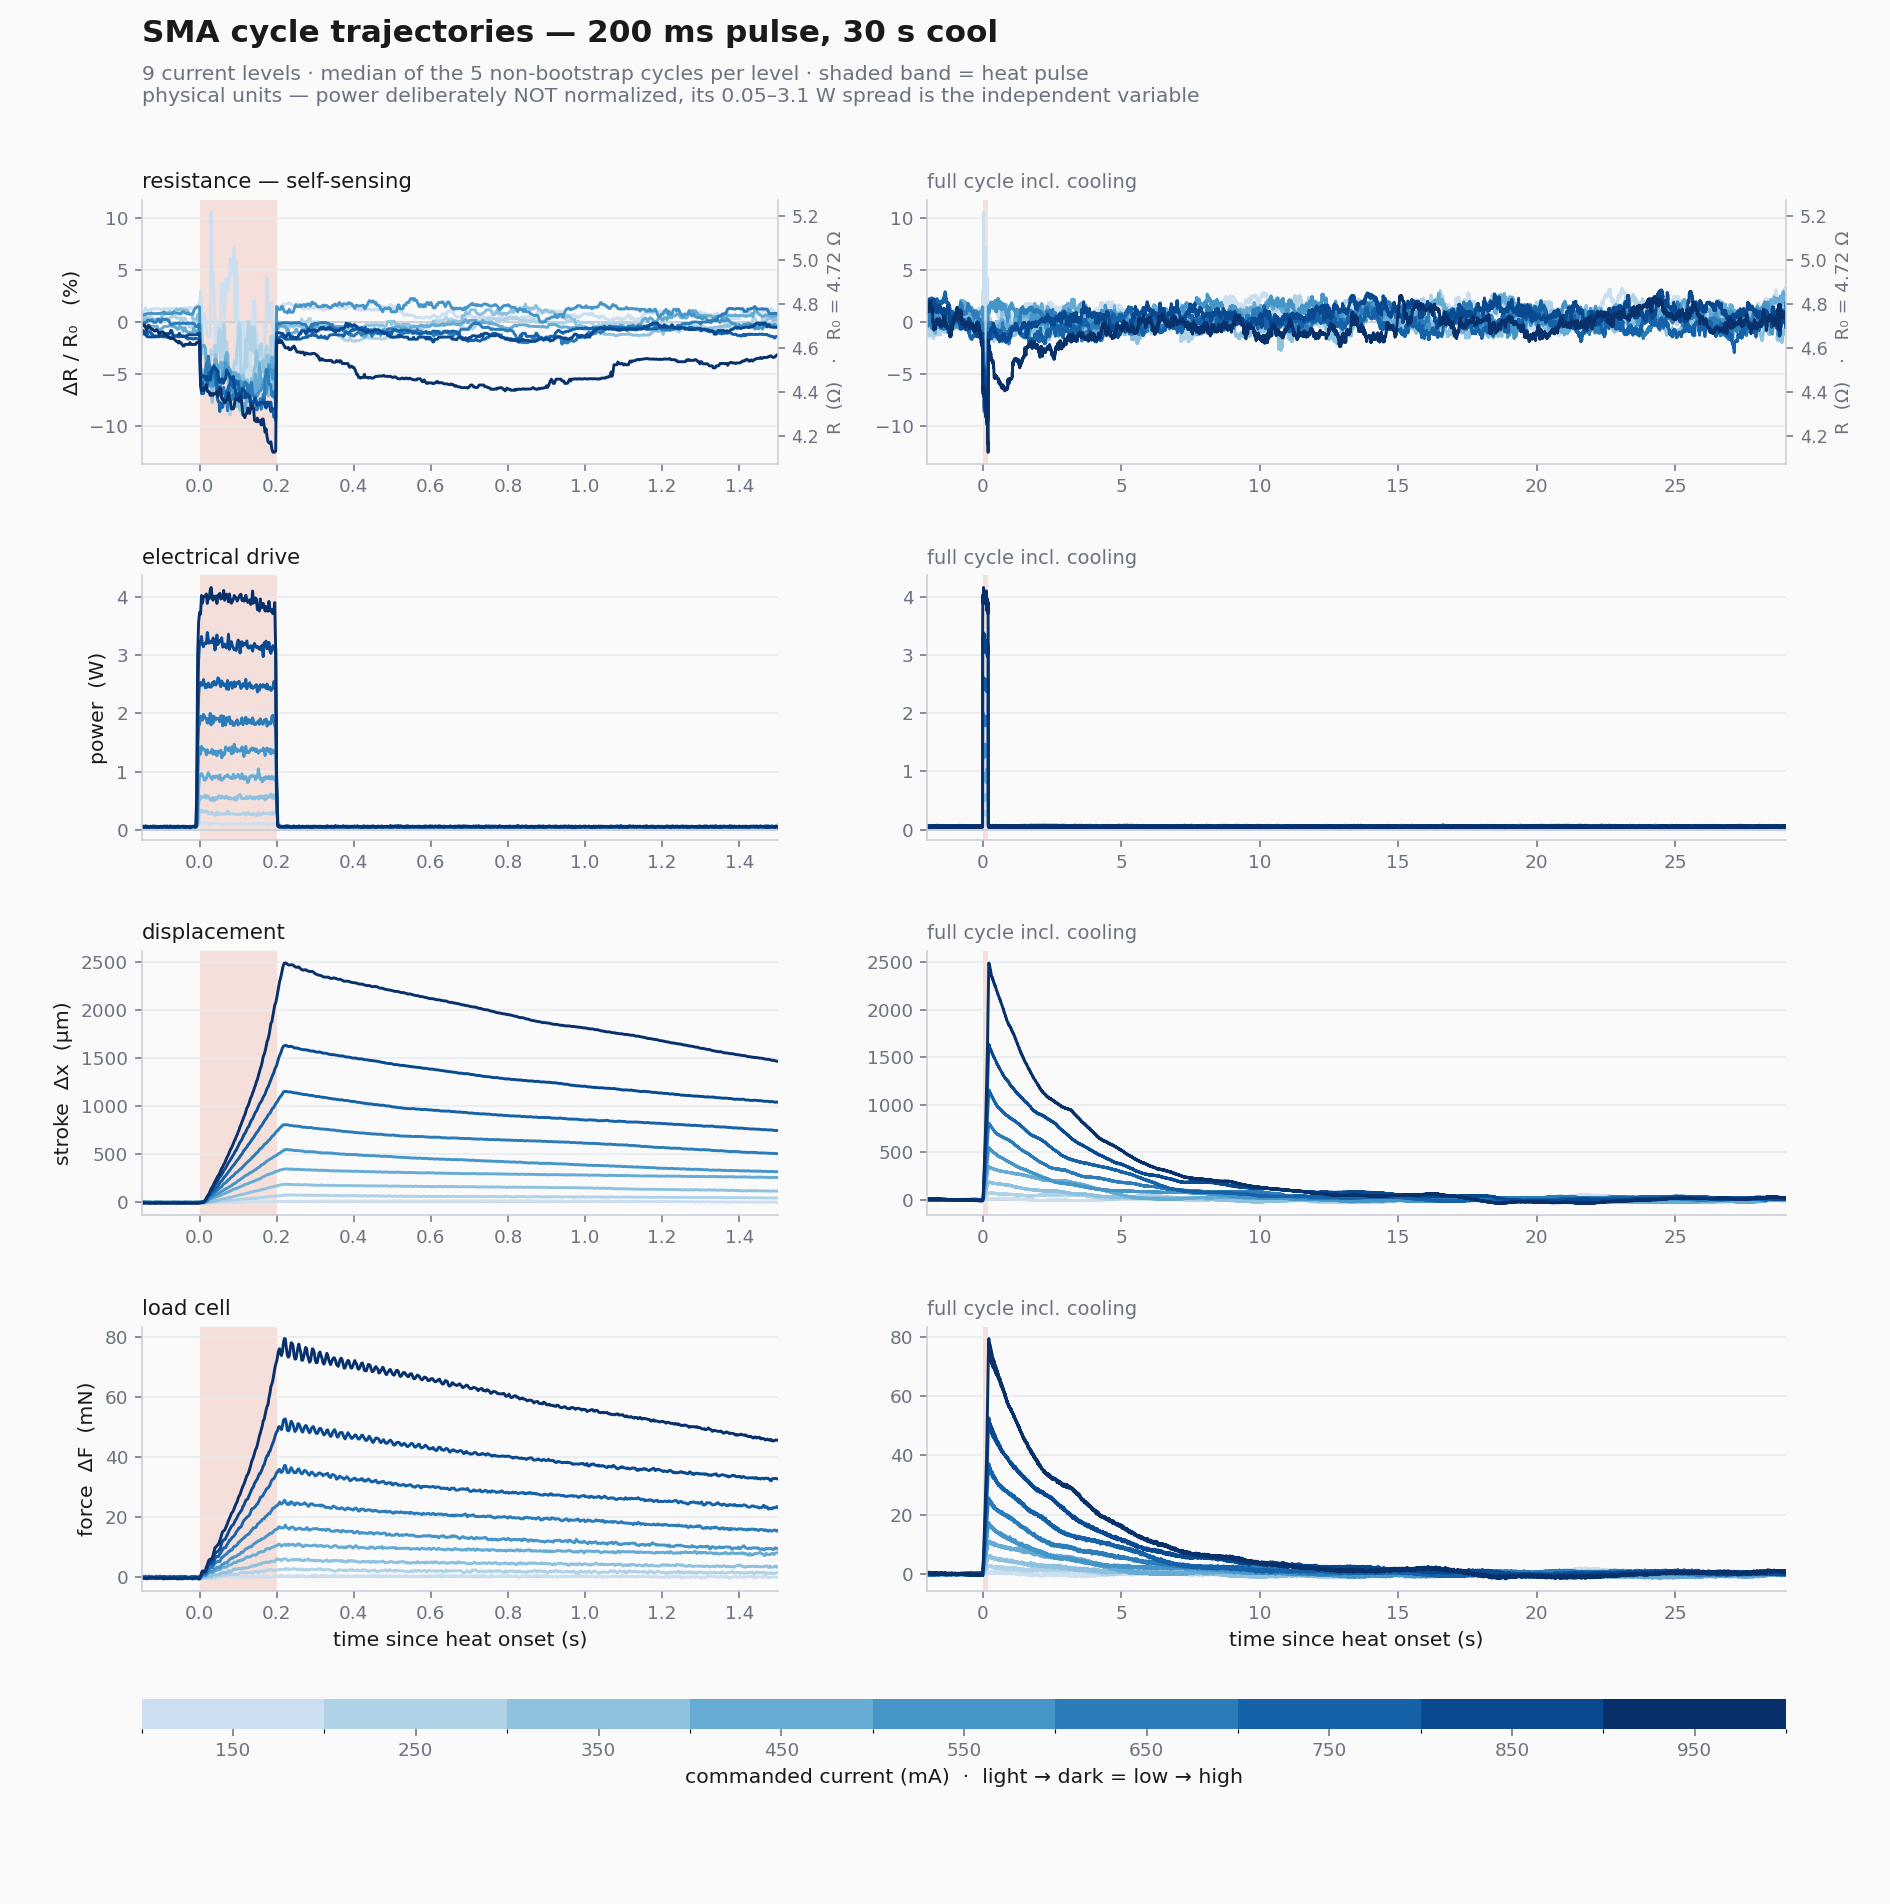
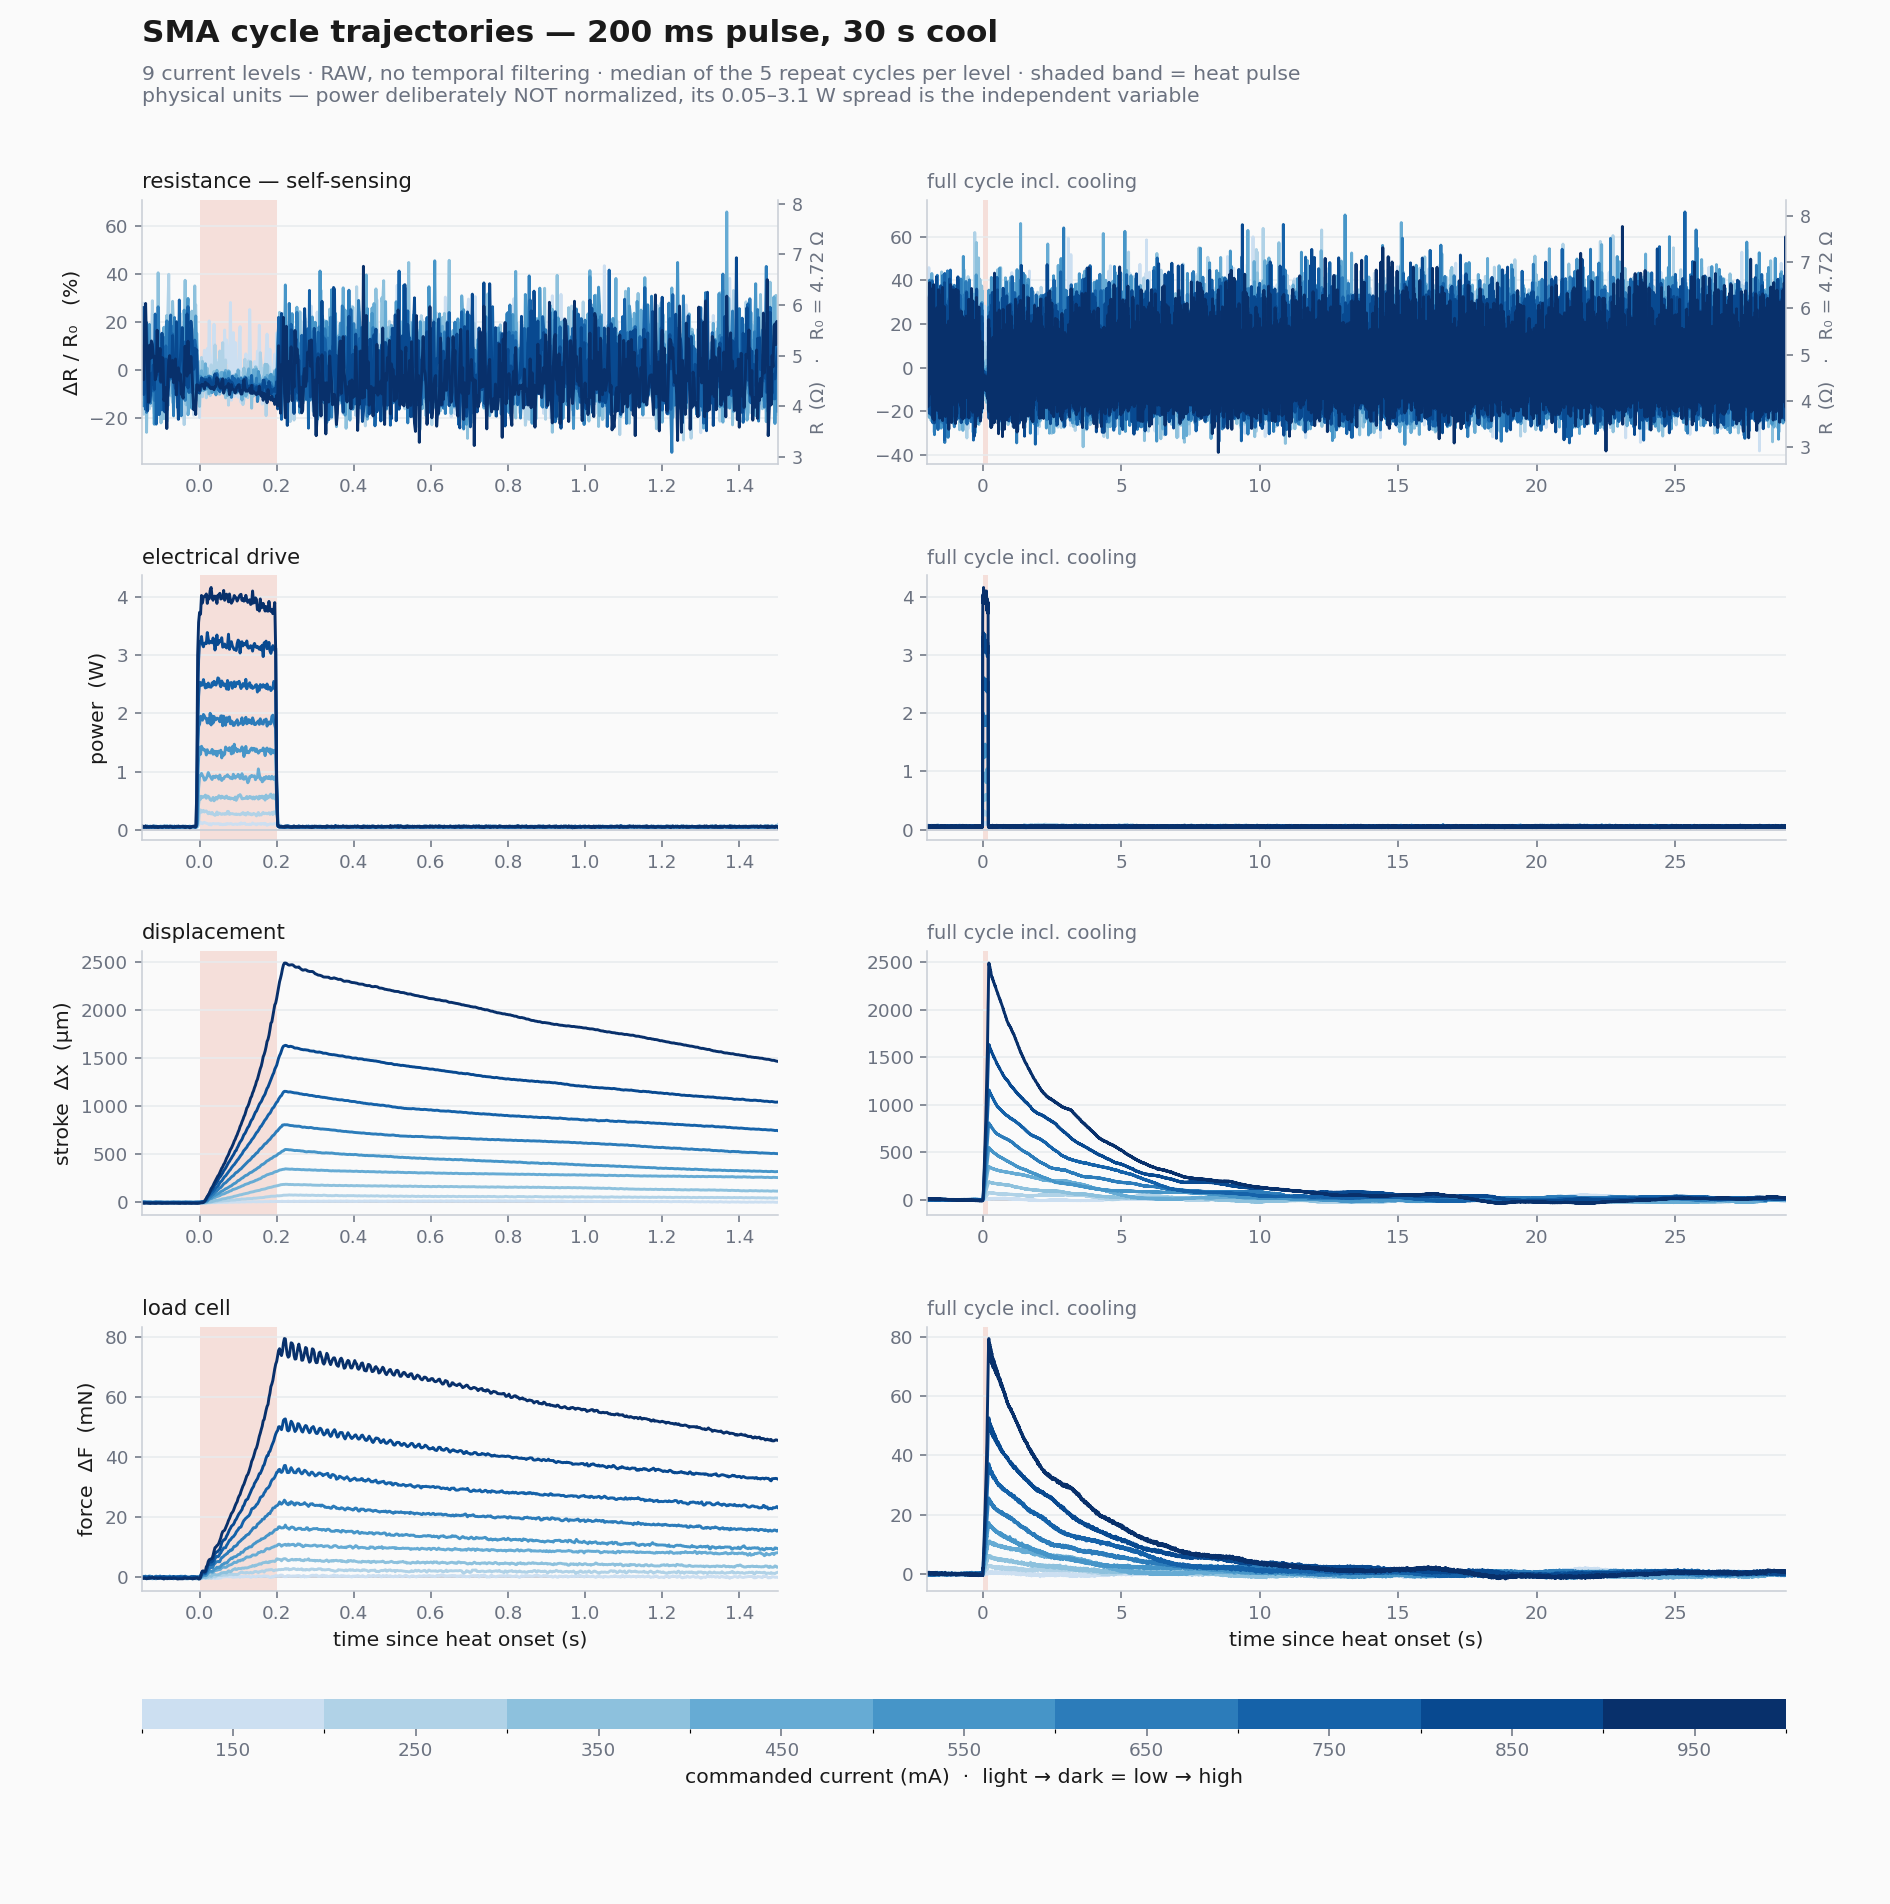
thermal: remove temporal filtering from the trajectory plots
The panels now plot the measurement, not a reconstruction of it. Low-pass
filtering was tried and is removed: it makes the trace stop reflecting what the
rig actually did, which is the same reason nothing is dropped from the
per-pulse table.

The comparison is kept in the module as a record so it is not re-introduced by
accident. Measured on an idealised -13% R dip plus real noise:

    filter                    overshoot   idle sd   dip kept
    butterworth 4 @1 Hz        +1.077%     1.47%      68%
    butterworth 2 @1 Hz        +0.391%     1.44%      66%
    bessel 4 @1 Hz             +0.046%     1.38%      63%
    gaussian (equivalent)       0.000%     1.32%      61%

Both failure modes are real. Butterworth RINGS -- the pulse is a step and an
8th-order-effective filtfilt swings +1.08% ABOVE baseline after it, while the
true signal there is strictly negative, so that excursion is pure artifact
sitting exactly where the cooling curve is read; it reads as the wire
oscillating when it is not. Gaussian has provably zero overshoot (strictly
positive kernel -> monotonic step response) but still costs ~40% of the dip
amplitude at the corner needed to quiet the idle. An earlier rolling median was
worse than either: 1 s cut the 850x400 dip from -13.25% to -8.85%.

R at the ~107 mA idle bias genuinely carries ~24% per-sample noise. The trace
is noisy because the measurement is noisy, and no filter creates information
[…]

Changed region(s): [[0.4683, 0.1239, 0.9677, 0.2479], [0.0624, 0.1239, 0.437, 0.2479], [0.1873, 0.031, 0.5931, 0.062]]

diff --git a/Experiment_SMAThermalCharacterization/data/plot_trajectory.py b/Experiment_SMAThermalCharacterization/data/plot_trajectory.py
@@ -83,8 +83,7 @@ DETAIL_S = 1.5
 # phase: 0.25 s -> 4.35%, 0.50 s -> 3.18%, 1.00 s -> 2.33%, 2.00 s -> 1.76%.
 # 1 s is the knee: cool dynamics run over 5-20 s so it costs 5-20% of the
 # timescale, while 2 s starts blunting the fast end for little further gain.
-SMOOTH_S = 1.00
-SMOOTH_HEAT_S = 0.020   # lighter window DURING heat — see condition_trace()
+
 
 # where each (level, heat) lives; map runs preferred, probe fills 950x400
 SRC_MAP = {}
@@ -113,6 +112,40 @@ def rolling_median(y, n):
         return y
     s = pd.Series(y)
     return s.rolling(n, center=True, min_periods=1).median().to_numpy()
+
+
+# ─── NO TEMPORAL FILTERING ────────────────────────────────────────────────
+# These panels plot the measurement, not a reconstruction of it. Low-pass
+# filtering was tried and REMOVED: it makes the trace stop reflecting what the
+# rig actually did, which is the same reason nothing is dropped from the
+# per-pulse table.
+#
+# Kept here as a record so it is not re-introduced by accident. Measured on an
+# idealised -13% R dip plus real noise:
+#
+#     filter                    overshoot   idle sd   dip kept
+#     butterworth 4 @1 Hz        +1.077%     1.47%      68%
+#     butterworth 2 @1 Hz        +0.391%     1.44%      66%
+#     bessel 4 @1 Hz             +0.046%     1.38%      63%
+#     gaussian (equivalent)       0.000%     1.32%      61%
+#
+# Two things that cost more than they bought. Butterworth RINGS: the pulse is a
+# step, and an 8th-order-effective filtfilt swings +1.08% ABOVE baseline after
+# it. The true signal is strictly negative there, so that excursion is pure
+# artifact sitting exactly where the cooling curve is read -- it looks like the
+# wire oscillating when it is not. Gaussian has provably zero overshoot (its
+# kernel is strictly positive, so the step response is monotonic) but still
+# costs ~40% of the dip amplitude at the corner needed to quiet the idle.
+#
+# The honest position: R at the ~107 mA idle bias genuinely carries ~24%
+# per-sample noise, and no filter creates information that was not measured.
+# The trace is noisy because the measurement is noisy. If that noise matters
+# for a given question, average over an explicit window and SAY the window --
+# do not bake it into the picture.
+#
+# The one aggregation still applied is the MEDIAN ACROSS THE 5 REPEAT CYCLES,
+# which is declared in the subtitle. That combines independent measurements of
+# the same condition; it does not reshape a single one in time.
 
 
 def condition_trace(sweep, level_mA, heat_ms, grid):
@@ -149,26 +182,6 @@ def condition_trace(sweep, level_mA, heat_ms, grid):
             if y is None:
                 continue
             g = np.interp(grid, t, y, left=np.nan, right=np.nan)
-            if k == "dR_pct":
-                # Smooth ON THE GRID, where the window length is honest. The
-                # raw frame is a mixed-rate union (SMA ~970 Hz interleaved with
-                # laser/load 490 Hz, ~2000 rows/s), so an N-row window there
-                # spans an unpredictable and much shorter time.
-                # HEAT is left raw: 4.8% per sample needs no help, and
-                # smoothing would blunt the transition edge that matters.
-                # Everything else (pre + cool) is the ~107 mA idle bias at 24%
-                # per sample, which is hash without it.
-                # R noise scales as 1/I, so the heat phase is NOT uniformly
-                # clean: 4.8% at 850 mA but ~17% at 150 mA (same absolute sense
-                # noise against a 5.7x smaller signal). A light 20 ms window
-                # brings the low levels to ~6% while costing only 5% of a
-                # 400 ms pulse edge; the idle phases get the full 250 ms.
-                idle = (grid < 0) | (grid > heat_end)
-                sm = g.copy()
-                sm[idle] = rolling_median(g[idle], max(3, int(SMOOTH_S * GRID_HZ)))
-                sm[~idle] = rolling_median(g[~idle],
-                                           max(3, int(SMOOTH_HEAT_S * GRID_HZ)))
-                g = sm
             stack[k].append(g)
     out = {}
     for k, arr in stack.items():
@@ -229,14 +242,12 @@ def build(heat_ms, norm, levels):
                     # low levels into hash around the idle bias (0.05 W idle
                     # against a 0.13 W peak at 150 mA reads as 0.4, not 0).
                     #
-                    # Responses get a 100 ms rolling median FIRST. Dividing by
-                    # a small peak amplifies noise with it -- at 150 mA the
-                    # stroke is 42 um, so raw normalization swings +-0.5 and
-                    # buries the shape being compared. The mechanical bandwidth
-                    # here is ~1 Hz (rise 0.23-0.43 s), so 100 ms removes
-                    # nothing real.
-                    y = rolling_median(y, max(3, int(0.100 * GRID_HZ)))
-                    pk = np.nanmax(np.abs(y))
+                    # The DIVISOR is a robust scale (99.5th percentile), not
+                    # the raw max -- with a noisy channel the max is a noise
+                    # excursion, so scaling by it would shrink the whole trace
+                    # by however bad the worst sample happened to be. The
+                    # plotted data itself is untouched.
+                    pk = np.nanpercentile(np.abs(y), 99.5)
                     if pk > 0:
                         y = y / pk
                 m = (grid >= t_lo) & (grid <= t_hi)
@@ -298,8 +309,9 @@ def build(heat_ms, norm, levels):
     fig.text(0.075, 0.990, f"SMA cycle trajectories — {heat_ms} ms pulse, 30 s cool",
              ha="left", va="top", fontsize=16, weight="semibold", color=INK)
     fig.text(0.075, 0.966,
-             f"{len(lv_sorted)} current levels · median of the 5 non-bootstrap "
-             f"cycles per level · shaded band = heat pulse\n{what}",
+             f"{len(lv_sorted)} current levels · RAW, no temporal filtering · "
+             f"median of the 5 repeat cycles per level · shaded band = heat "
+             f"pulse\n{what}",
              ha="left", va="top", fontsize=10.5, color=INK_MUTED)
 
     out = os.path.join(BASE, f"trajectory_{heat_ms}ms_{norm}.png")
